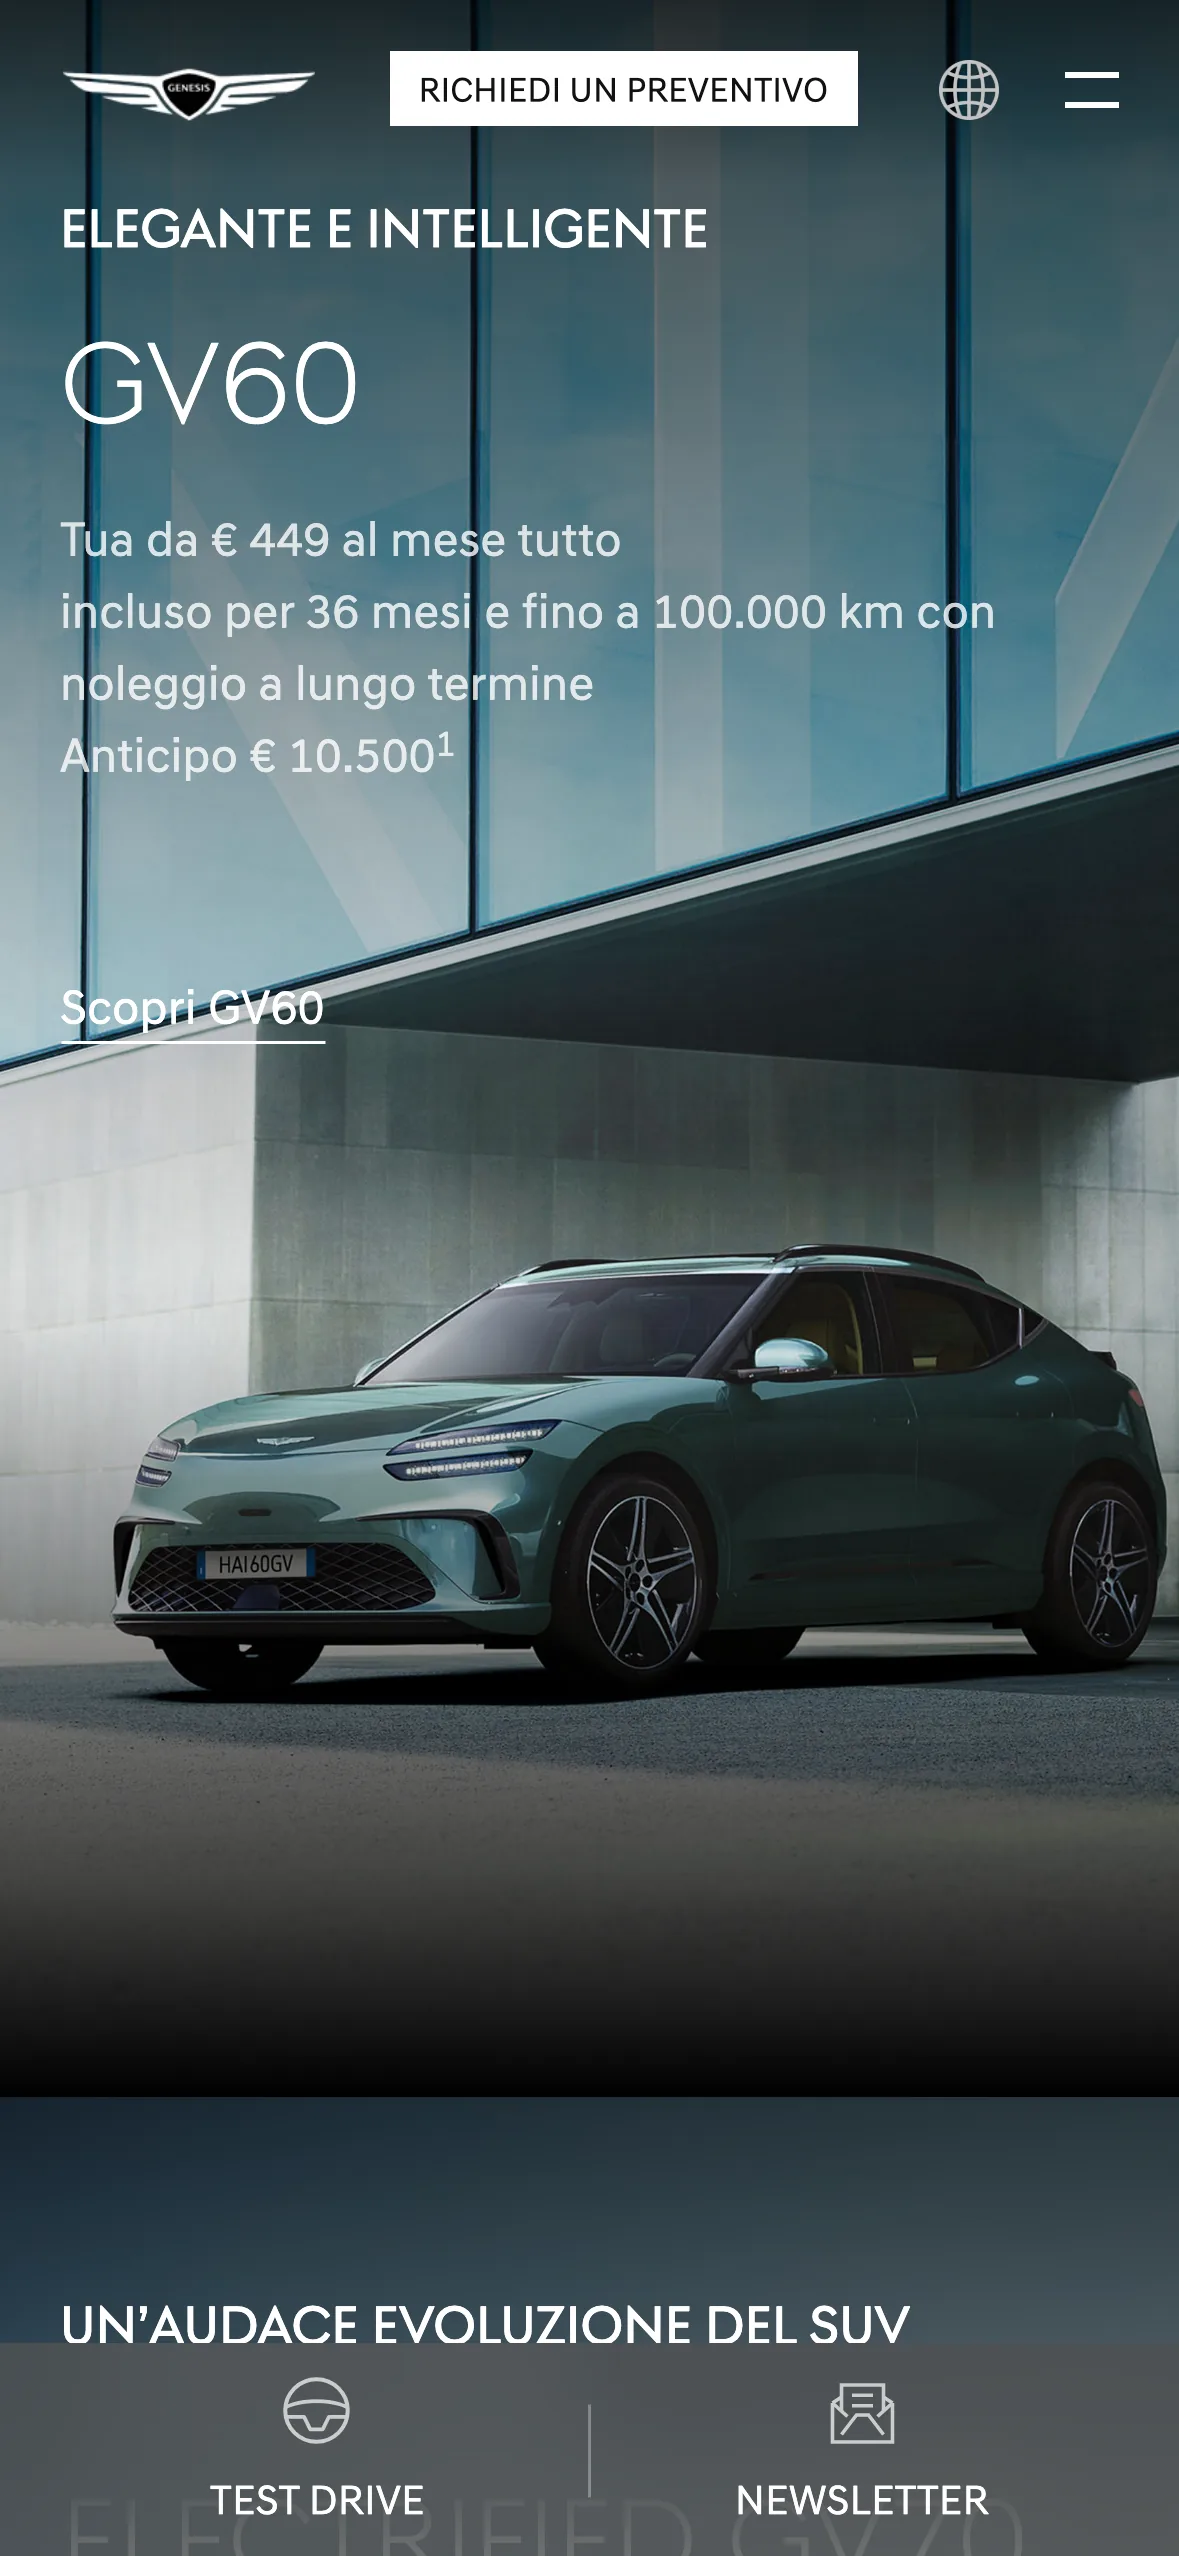
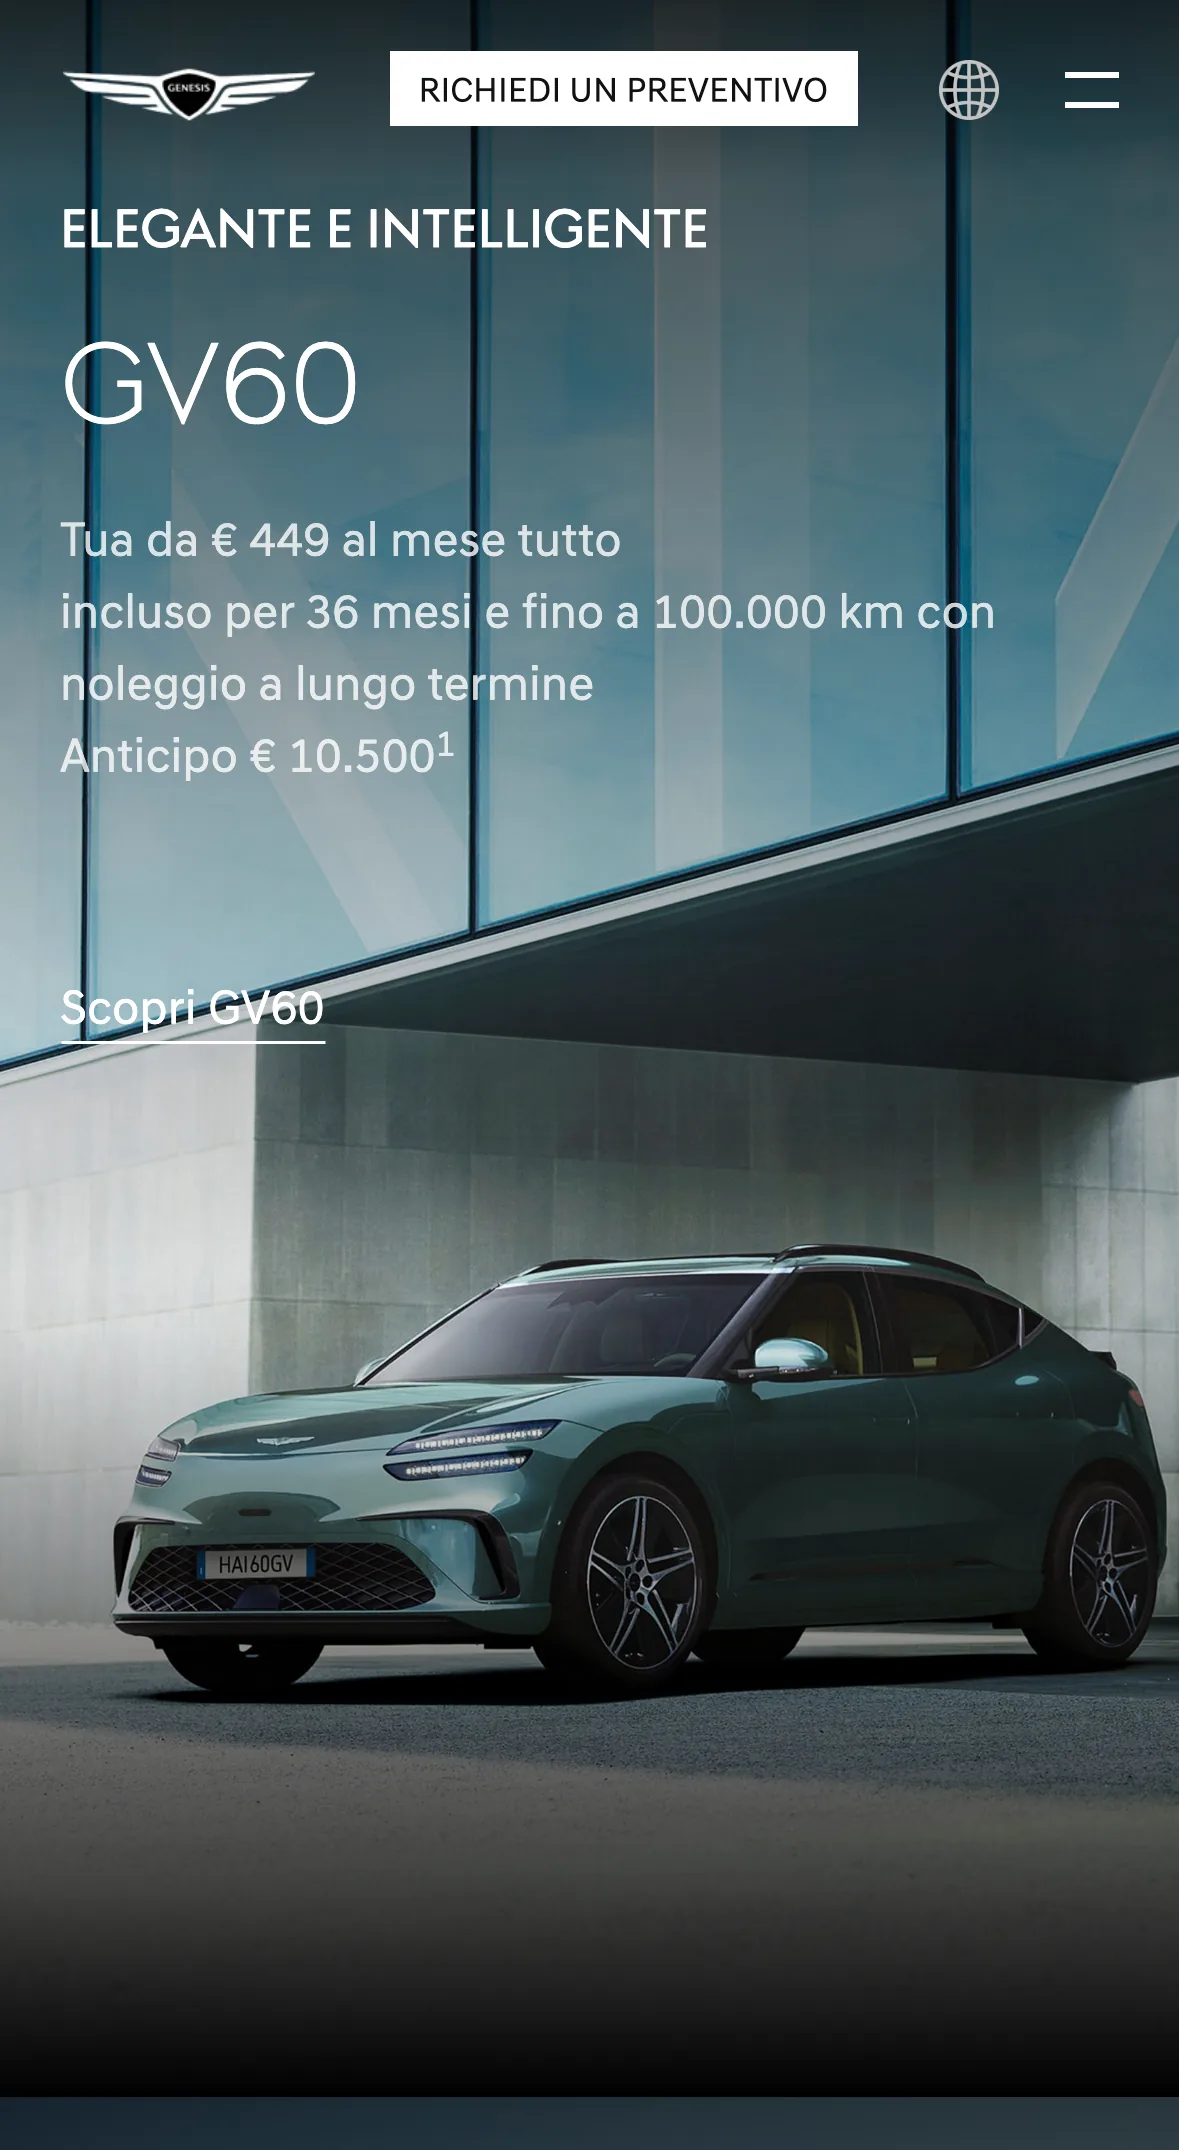
캡션 링크 스타일, 메뉴 열림 시 skip 링크도 inert, 모바일 라이브 키비주얼을 히어로만으로 크롭

diff --git a/case.css b/case.css
@@ -155,6 +155,8 @@ body{background:var(--bg)}
 .figwide{grid-column:3 / span 8; margin-top:1.2rem}
 .figwide img{width:100%; height:auto; display:block; border:1px solid var(--rule)}
 .figwide figcaption{margin-top:.8rem; font-size:var(--t-cap); color:var(--fg-faint); line-height:1.6}
+.figwide figcaption a{color:inherit; text-decoration:underline; text-underline-offset:.18em; text-decoration-thickness:1px}
+.figwide figcaption a:hover,.figwide figcaption a:focus-visible{color:var(--fg)}
 .figwide figcaption b{color:var(--fg-soft); font-weight:600}
 /* 2연 도판도 세로비가 2 이상이라 칼럼 폭을 그대로 따르면 세로가 900px을 넘고 왼쪽이 빈다.
    단독 스크린과 같은 --shot-w 기준으로 묶어 케이스 간 크기를 맞춘다. */

diff --git a/nav.js b/nav.js
@@ -14,7 +14,7 @@
     if('inert' in menu) menu.inert = !open;
     btn.setAttribute('aria-expanded', open ? 'true' : 'false');
     /* 메뉴가 화면을 덮는 동안 뒤의 본문은 탭 순서와 보조기술에서 빠진다. 원래 inert였던 것(홈의 비활성 페이지)은 건드리지 않는다 */
-    document.querySelectorAll('main, nav.next').forEach(function(el){
+    document.querySelectorAll('main, nav.next, .skip').forEach(function(el){
       if(open){ if(!el.hasAttribute('inert')){ el.setAttribute('data-menu-inert','1'); el.inert = true; } }
       else if(el.hasAttribute('data-menu-inert')){ el.removeAttribute('data-menu-inert'); el.inert = false; }
     });

diff --git a/case-genesis.html b/case-genesis.html
@@ -261,7 +261,7 @@
     <div class="row"><p class="viz-lbl reveal"><span class="ko">라이브 사이트</span><span class="en">Live site</span></p></div>
     <div class="row"><figure class="figwide reveal">
       <picture>
-        <source media="(max-width:900px)" srcset="genesis-live-it-m.webp" width="1179" height="2556" />
+        <source media="(max-width:900px)" srcset="genesis-live-it-m.webp" width="1179" height="2150" />
         <img src="genesis-live-it.webp" alt="genesis.com/it 첫 화면. 이탈리아어 메뉴와 GV60 소개" loading="lazy" width="2880" height="1800" />
       </picture>
     </figure></div>
